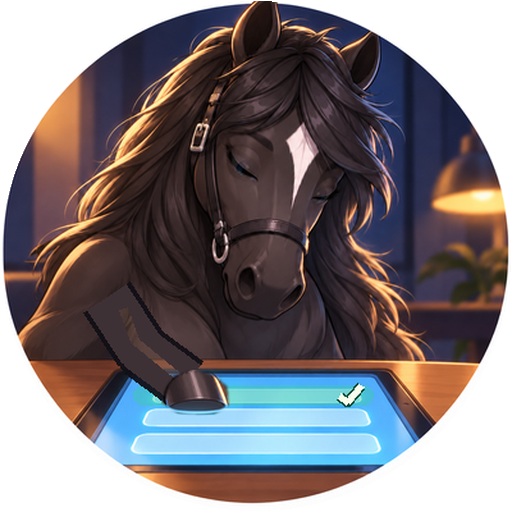
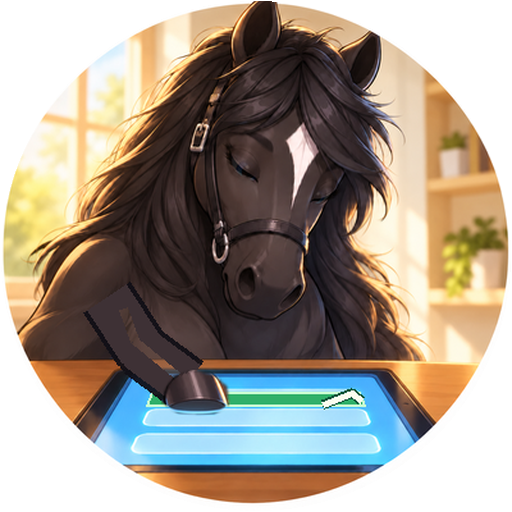
Brighten and sharpen Noir polysemy GIF [fast-deploy] [polysemy-release]

diff --git a/polysemy-lab.html b/polysemy-lab.html
@@ -7,12 +7,12 @@
 <meta name="theme-color" content="#173e48"><title>Polysemy Lab · 一詞多義學習室 | EdmundEducation</title>
 <meta name="mobile-web-app-capable" content="yes"><meta name="apple-mobile-web-app-capable" content="yes"><meta name="apple-mobile-web-app-title" content="Edmund 一詞多義"><meta name="apple-mobile-web-app-status-bar-style" content="default">
 <link rel="manifest" href="/pwa-manifests/polysemy-lab.webmanifest"><link rel="icon" href="/favicon.ico" sizes="any"><link rel="icon" type="image/png" sizes="48x48" href="/assets/icons/favicon-48x48.png"><link rel="apple-touch-icon" sizes="180x180" href="/apple-touch-icon.png"><link rel="apple-touch-icon" sizes="167x167" href="/assets/icons/apple-touch-icon-167x167.png"><link rel="apple-touch-icon" sizes="152x152" href="/assets/icons/apple-touch-icon-152x152.png"><link rel="stylesheet" href="/pwa-ui.css"><script defer src="/pwa-register.js"></script>
-<link rel="stylesheet" href="shared-system-nav.css?v=20261022-character-coins1"><link rel="stylesheet" href="polysemy-lab/style.css?v=20261022-wolf1"><link rel="stylesheet" href="polysemy-noir/noir-header.css?v=20261022-1"><link rel="preload" as="image" type="image/webp" href="polysemy-wolf-profile-login-frame-v1.webp">
+<link rel="stylesheet" href="shared-system-nav.css?v=20261022-character-coins1"><link rel="stylesheet" href="polysemy-lab/style.css?v=20261022-wolf1"><link rel="stylesheet" href="polysemy-noir/noir-header.css?v=20261022-2"><link rel="preload" as="image" type="image/webp" href="polysemy-wolf-profile-login-frame-v1.webp">
 </head>
 <body>
 <header class="edmund-system-header"><div class="edmund-system-header__inner">
 <div class="edmund-system-switcher" data-edmund-system-switcher data-system="polysemy-lab"><button class="edmund-system-switcher__trigger" type="button" data-system-switcher-trigger aria-label="切換學習系統"><img class="edmund-system-switcher__logo" src="Company Logo for Cover Page.png" alt=""><span class="edmund-system-switcher__copy"><strong>EdmundEducation</strong><small>Polysemy Lab · 一詞多義</small></span><span aria-hidden="true">⌄</span></button></div>
-<button class="noir-polysemy-mascot" type="button" data-noir-polysemy-toggle aria-label="暫停 Noir 一詞多義動畫" aria-pressed="true"><img src="polysemy-noir/noir-polysemy.gif?v=20261022-1" width="68" height="68" alt="Noir 低頭在桌面螢幕選擇不同詞義，得到勾號提示，並眨眼思考"></button>
+<button class="noir-polysemy-mascot" type="button" data-noir-polysemy-toggle aria-label="暫停 Noir 一詞多義動畫" aria-pressed="true"><img src="polysemy-noir/noir-polysemy.gif?v=20261022-2" width="68" height="68" alt="Noir 低頭在桌面螢幕選擇不同詞義，選項變綠並得到勾號提示，並眨眼思考"></button>
 <nav class="header-actions" aria-label="帳戶與首頁"><a href="index.html">主頁 · Home</a><button data-recordings hidden>我的錄音 · My Recordings</button><span data-student></span><button data-logout hidden>登出</button></nav>
 </div></header>
 <main>
@@ -33,5 +33,5 @@
 <footer>EdmundEducation</footer>
 <script src="https://cdn.jsdelivr.net/npm/@supabase/supabase-js@2.50.3/dist/umd/supabase.min.js" integrity="sha384-hIOJ3C3LfQJBpaQVNahkcvi607jdU2k3LB0MLyIuyXNDsS5aI2xfaQiX+oSmHvTD" crossorigin="anonymous"></script>
 <script src="supabase-config.js"></script><script src="shared-system-nav.js?v=20261022-character-coins1"></script><script type="module" src="polysemy-lab/app.mjs?v=20261003-mobile-play1"></script>
-<script defer src="polysemy-noir/noir-header.js?v=20261022-1"></script>
+<script defer src="polysemy-noir/noir-header.js?v=20261022-2"></script>
 </body></html>

diff --git a/polysemy-noir/noir-header.js b/polysemy-noir/noir-header.js
@@ -2,9 +2,9 @@
   const button = document.querySelector('[data-noir-polysemy-toggle]');
   if (!button) return;
   const image = button.querySelector('img');
-  const gif = 'polysemy-noir/noir-polysemy.gif?v=20261022-1';
+  const gif = 'polysemy-noir/noir-polysemy.gif?v=20261022-2';
   const stills = Array.from({ length: 5 }, (_, index) =>
-    `polysemy-noir/stills/noir-${String(index + 1).padStart(2, '0')}.png?v=20261022-1`
+    `polysemy-noir/stills/noir-${String(index + 1).padStart(2, '0')}.png?v=20261022-2`
   );
   const storageKey = 'edmund-polysemy-noir-playing';
   let playing = !window.matchMedia('(prefers-reduced-motion: reduce)').matches;

diff --git a/tools/mascot-art/polysemy/build_noir_mc.py b/tools/mascot-art/polysemy/build_noir_mc.py
@@ -54,14 +54,22 @@ def target(t):
 
 def draw_tick(image, row, intensity):
     if row is None or intensity <= 0: return
-    # Screen choices remain readable without any verbal label at icon size.
-    y = (309, 328, 347)[row]
+    # A green tabletop row and an inverted check face Noir across the table.
+    outlines = (
+        [(119,306),(280,306),(284,317),(115,317)],
+        [(111,322),(288,322),(293,334),(106,334)],
+        [(103,341),(295,341),(301,353),(98,353)],
+    )
+    y = (311, 328, 347)[row]
     over = Image.new('RGBA', image.size)
     d = ImageDraw.Draw(over)
-    d.rounded_rectangle((104-row*3, y-8, 291+row*3, y+7), 7, fill=(58, 205, 164, round(110*intensity)))
-    points = [(265,y), (271,y+5), (282,y-8)]
-    d.line(points, fill=(8, 79, 56, round(255*intensity)), width=8, joint='curve')
-    d.line(points, fill=(249, 255, 236, round(255*intensity)), width=5, joint='curve')
+    d.polygon(outlines[row], fill=(48, 176, 105, round(255*intensity)))
+    d.line(outlines[row]+[outlines[row][0]], fill=(200, 255, 211, round(255*intensity)), width=2, joint='curve')
+    # Rotate the check 180 degrees in the tabletop plane: its upper edge is
+    # toward Noir, so the symbol is intentionally upside down to the viewer.
+    points = [(282,y+2), (275,y-4), (252,y+5)]
+    d.line(points, fill=(13, 88, 59, round(255*intensity)), width=8, joint='curve')
+    d.line(points, fill=(252, 255, 239, round(255*intensity)), width=5, joint='curve')
     image.alpha_composite(over)
 
 
@@ -110,6 +118,13 @@ def circular(image):
 
 def indexed(frames):
     palette = frames[0].convert('RGB').quantize(colors=255, method=Image.Quantize.MEDIANCUT)
+    # The neutral first frame contains no green. Reserve exact feedback colors
+    # before quantizing or GIF palette mapping turns the selected row blue.
+    base_colors = palette.getpalette()
+    for index, rgb in ((251,(13,88,59)),(252,(252,255,239)),
+                       (253,(200,255,211)),(254,(48,176,105))):
+        base_colors[index*3:index*3+3] = list(rgb)
+    palette.putpalette(base_colors)
     colors = [255,0,255] + palette.getpalette()[:765]
     colors += [0]*(768-len(colors))
     out = []
@@ -126,8 +141,8 @@ def indexed(frames):
 def main():
     PUBLIC.mkdir(exist_ok=True)
     (PUBLIC/'stills').mkdir(exist_ok=True)
-    plate = read('noir-clean-plate.png')
-    blink = read('noir-blink-reference.png')
+    plate = read('noir-clean-plate-bright-v2.png')
+    blink = read('noir-blink-bright-v2.png')
     reference = read('noir-hoof-reference.png')
     hoof = hoof_sprite(reference)
     eye_mask = Image.new('L',(SIZE,SIZE))
@@ -142,7 +157,9 @@ def main():
     for i,n in enumerate((5,27,61,93,126),1):
         circular(frames[n].resize((256,256),Image.Resampling.LANCZOS)).save(PUBLIC/'stills'/f'noir-{i:02}.png',optimize=True)
     circular(frames[27].resize((512,512),Image.Resampling.LANCZOS)).save(PUBLIC/'noir-polysemy-poster.png',optimize=True)
-    mini = [circular(f.resize((160,160),Image.Resampling.LANCZOS)) for f in frames]
+    # 400 px output retains the working-frame detail instead of discarding it
+    # to the previous 160 px export before the browser scales to the header.
+    mini = [circular(f) for f in frames]
     gif = indexed(mini)
     gif[0].save(PUBLIC/'noir-polysemy.gif',save_all=True,append_images=gif[1:],duration=40,loop=0,transparency=0,disposal=2,optimize=False)
     print(f'{len(frames)} source frames, {len(gif)} GIF inputs')
